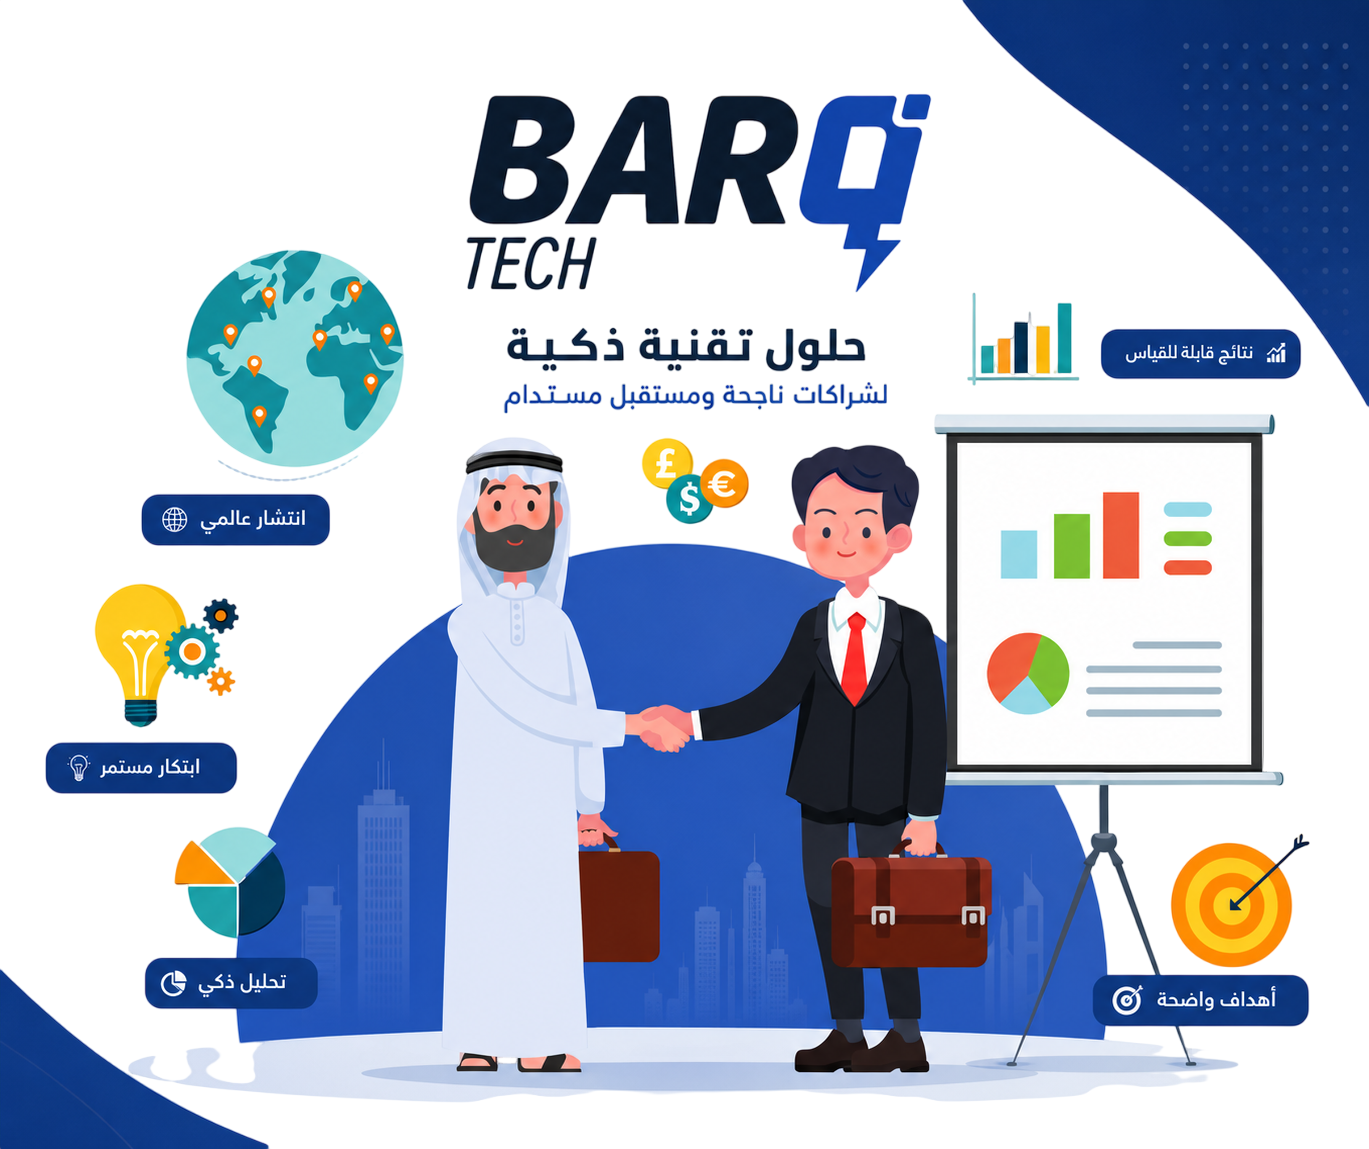
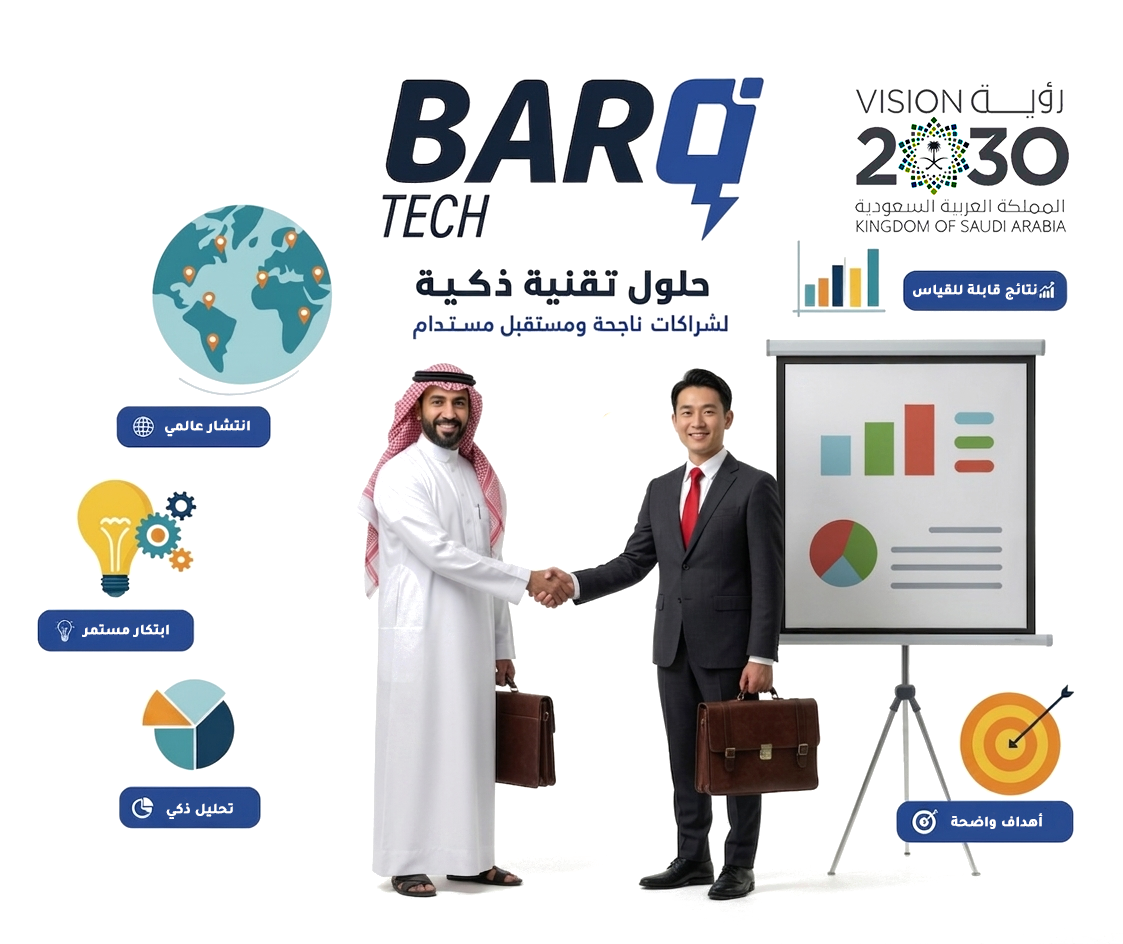
Update assets, ClientSection, Home, and styles

diff --git a/src/pages/Home.jsx b/src/pages/Home.jsx
@@ -39,10 +39,10 @@ const Home = () => {
       <div className="container-fluid position-relative p-0">
         <Navbar />
 
-        <div className="container-fluid py-5 bg-primary hero-header">
+        <div className="container-fluid py-5 hero-header">
           <div className="container my-5 py-5 px-lg-5">
             <div className="row g-5 py-5 align-items-center">
-              <div className="col-lg-6 text-center text-lg-start order-2 order-lg-1">
+              <div className="col-lg-10 mx-auto text-center">
                 <h1 className="text-white mb-4 animated zoomIn" style={{ fontSize: 'calc(1.5rem + 1.5vw)' }}>
                   {isAr ? 'برق تك..' : 'Barq Tech..'}
                 </h1>
@@ -53,7 +53,7 @@ const Home = () => {
                     'We transform your digital ambition into real results. At Barq Tech, we provide smart technical solutions that combine artificial intelligence, digital transformation, and business development to help your company grow rapidly, increase efficiency, and build a more powerful future. From websites and systems to advanced digital strategies — we are your technical partner for crafting success that leads the competition.'
                   )}
                 </p>
-                <div className="d-flex flex-column flex-sm-row justify-content-center justify-content-lg-start">
+                <div className="d-flex flex-column flex-sm-row justify-content-center">
                   <Link
                     to="/contact"
                     className={`btn btn-light py-sm-3 px-sm-5 rounded-pill animated slideInLeft mb-3 mb-sm-0 ${isAr ? 'ms-sm-3' : 'me-sm-3'}`}
@@ -66,15 +66,6 @@ const Home = () => {
                   >
                     {isAr ? 'اطلب عرض سعر' : 'Request a Quote'}
                   </Link>
-                </div>
-              </div>
-              <div className="col-lg-6 text-center order-1 order-lg-2">
-                <div className="mx-auto" style={{ maxWidth: '500px' }}>
-                  <img
-                    src="/img/hero.png"
-                    alt="Hero Image"
-                    className="img-fluid animated zoomIn hero-image-float"
-                  />
                 </div>
               </div>
             </div>

diff --git a/src/styles/style.css b/src/styles/style.css
@@ -477,26 +477,11 @@ h6,
 
 /*** Hero Header ***/
 .hero-header {
-    background-color: #082e71 !important;
-    background:
-        url(/img/bg-dot.png),
-        url(/img/bg-dot.png),
-        url(/img/bg-round.png),
-        url(/img/bg-tree.png),
-        url(/img/bg-bottom-hero.png);
-    background-position:
-        10px 10px,
-        bottom 190px right 10px,
-        left 55% top -1px,
-        left 45% bottom -1px,
-        center bottom -1px;
-    background-repeat: no-repeat;
-    background-size:
-        auto,
-        auto,
-        auto,
-        auto,
-        100% auto;
+    background-image: url(/img/bg-bottom-hero.png), url(/img/herofull.png?v=3) !important;
+    background-position: center bottom -1px, center center !important;
+    background-size: 100% auto, cover !important;
+    background-repeat: no-repeat, no-repeat !important;
+    position: relative;
 }
 
 
@@ -2112,9 +2097,9 @@ h6,
 .blog-card-premium {
     background: #fff;
     border-radius: 20px;
-    box-shadow: 0 10px 30px rgba(0,0,0,0.05);
+    box-shadow: 0 10px 30px rgba(0, 0, 0, 0.05);
     transition: all 0.4s cubic-bezier(0.165, 0.84, 0.44, 1);
-    border: 1px solid rgba(0,0,0,0.03);
+    border: 1px solid rgba(0, 0, 0, 0.03);
     overflow: hidden;
     display: flex;
     flex-direction: column;
@@ -2228,7 +2213,8 @@ h6,
     .card-image-premium {
         height: 200px;
     }
+
     .card-title-premium {
         font-size: 1.2rem;
     }
-}
+}

diff --git a/src/components/ClientSection.jsx b/src/components/ClientSection.jsx
@@ -53,7 +53,7 @@ const ClientSection = () => {
                       src={getImageUrl(client.logo)} 
                       alt={isAr ? client.name : client.name_en} 
                       className="img-fluid hover-scale transition filter-grayscale-hover" 
-                      style={{ maxHeight: '60px', width: 'auto', objectFit: 'contain' }}
+                      style={{ maxHeight: '80px', width: 'auto', maxWidth: '140px', objectFit: 'contain' }}
                     />
                   </div>
                 </div>
@@ -82,7 +82,7 @@ const ClientSection = () => {
                       src={getImageUrl(partner.logo)} 
                       alt={isAr ? partner.name : partner.name_en} 
                       className="img-fluid hover-scale transition filter-grayscale-hover" 
-                      style={{ maxHeight: '70px', width: 'auto', objectFit: 'contain' }}
+                      style={{ maxHeight: '80px', width: 'auto', maxWidth: '140px', objectFit: 'contain' }}
                     />
                   </div>
                 </div>
